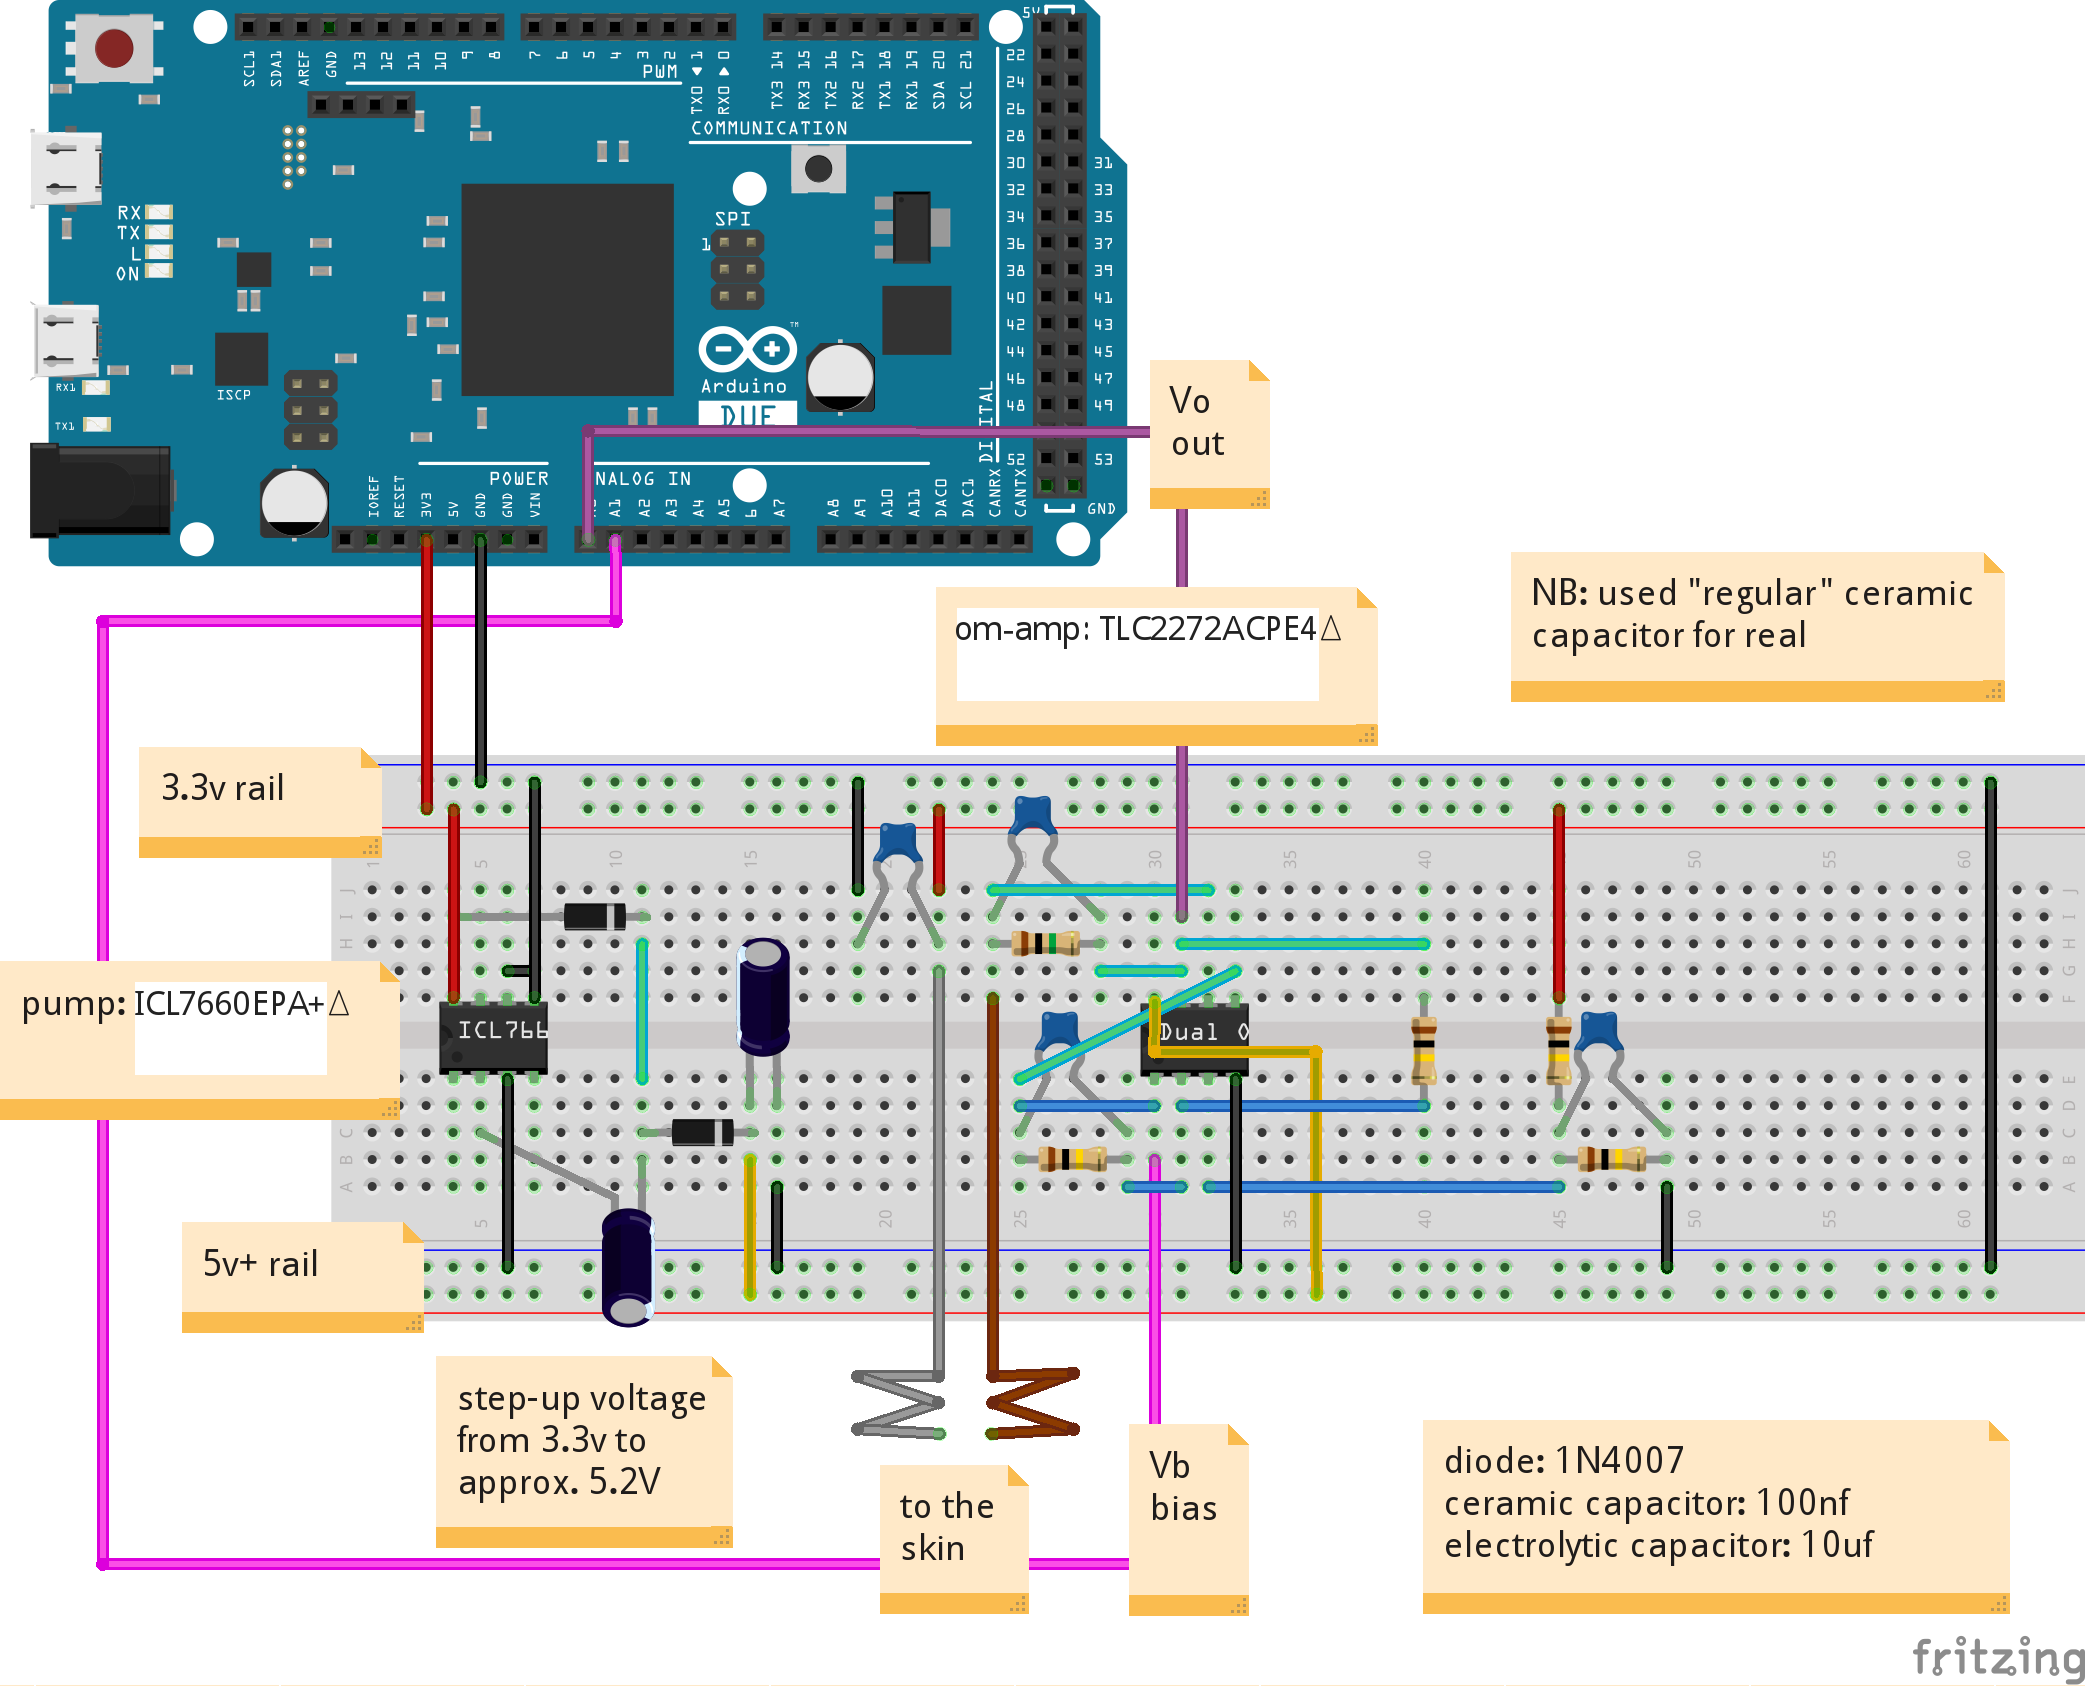
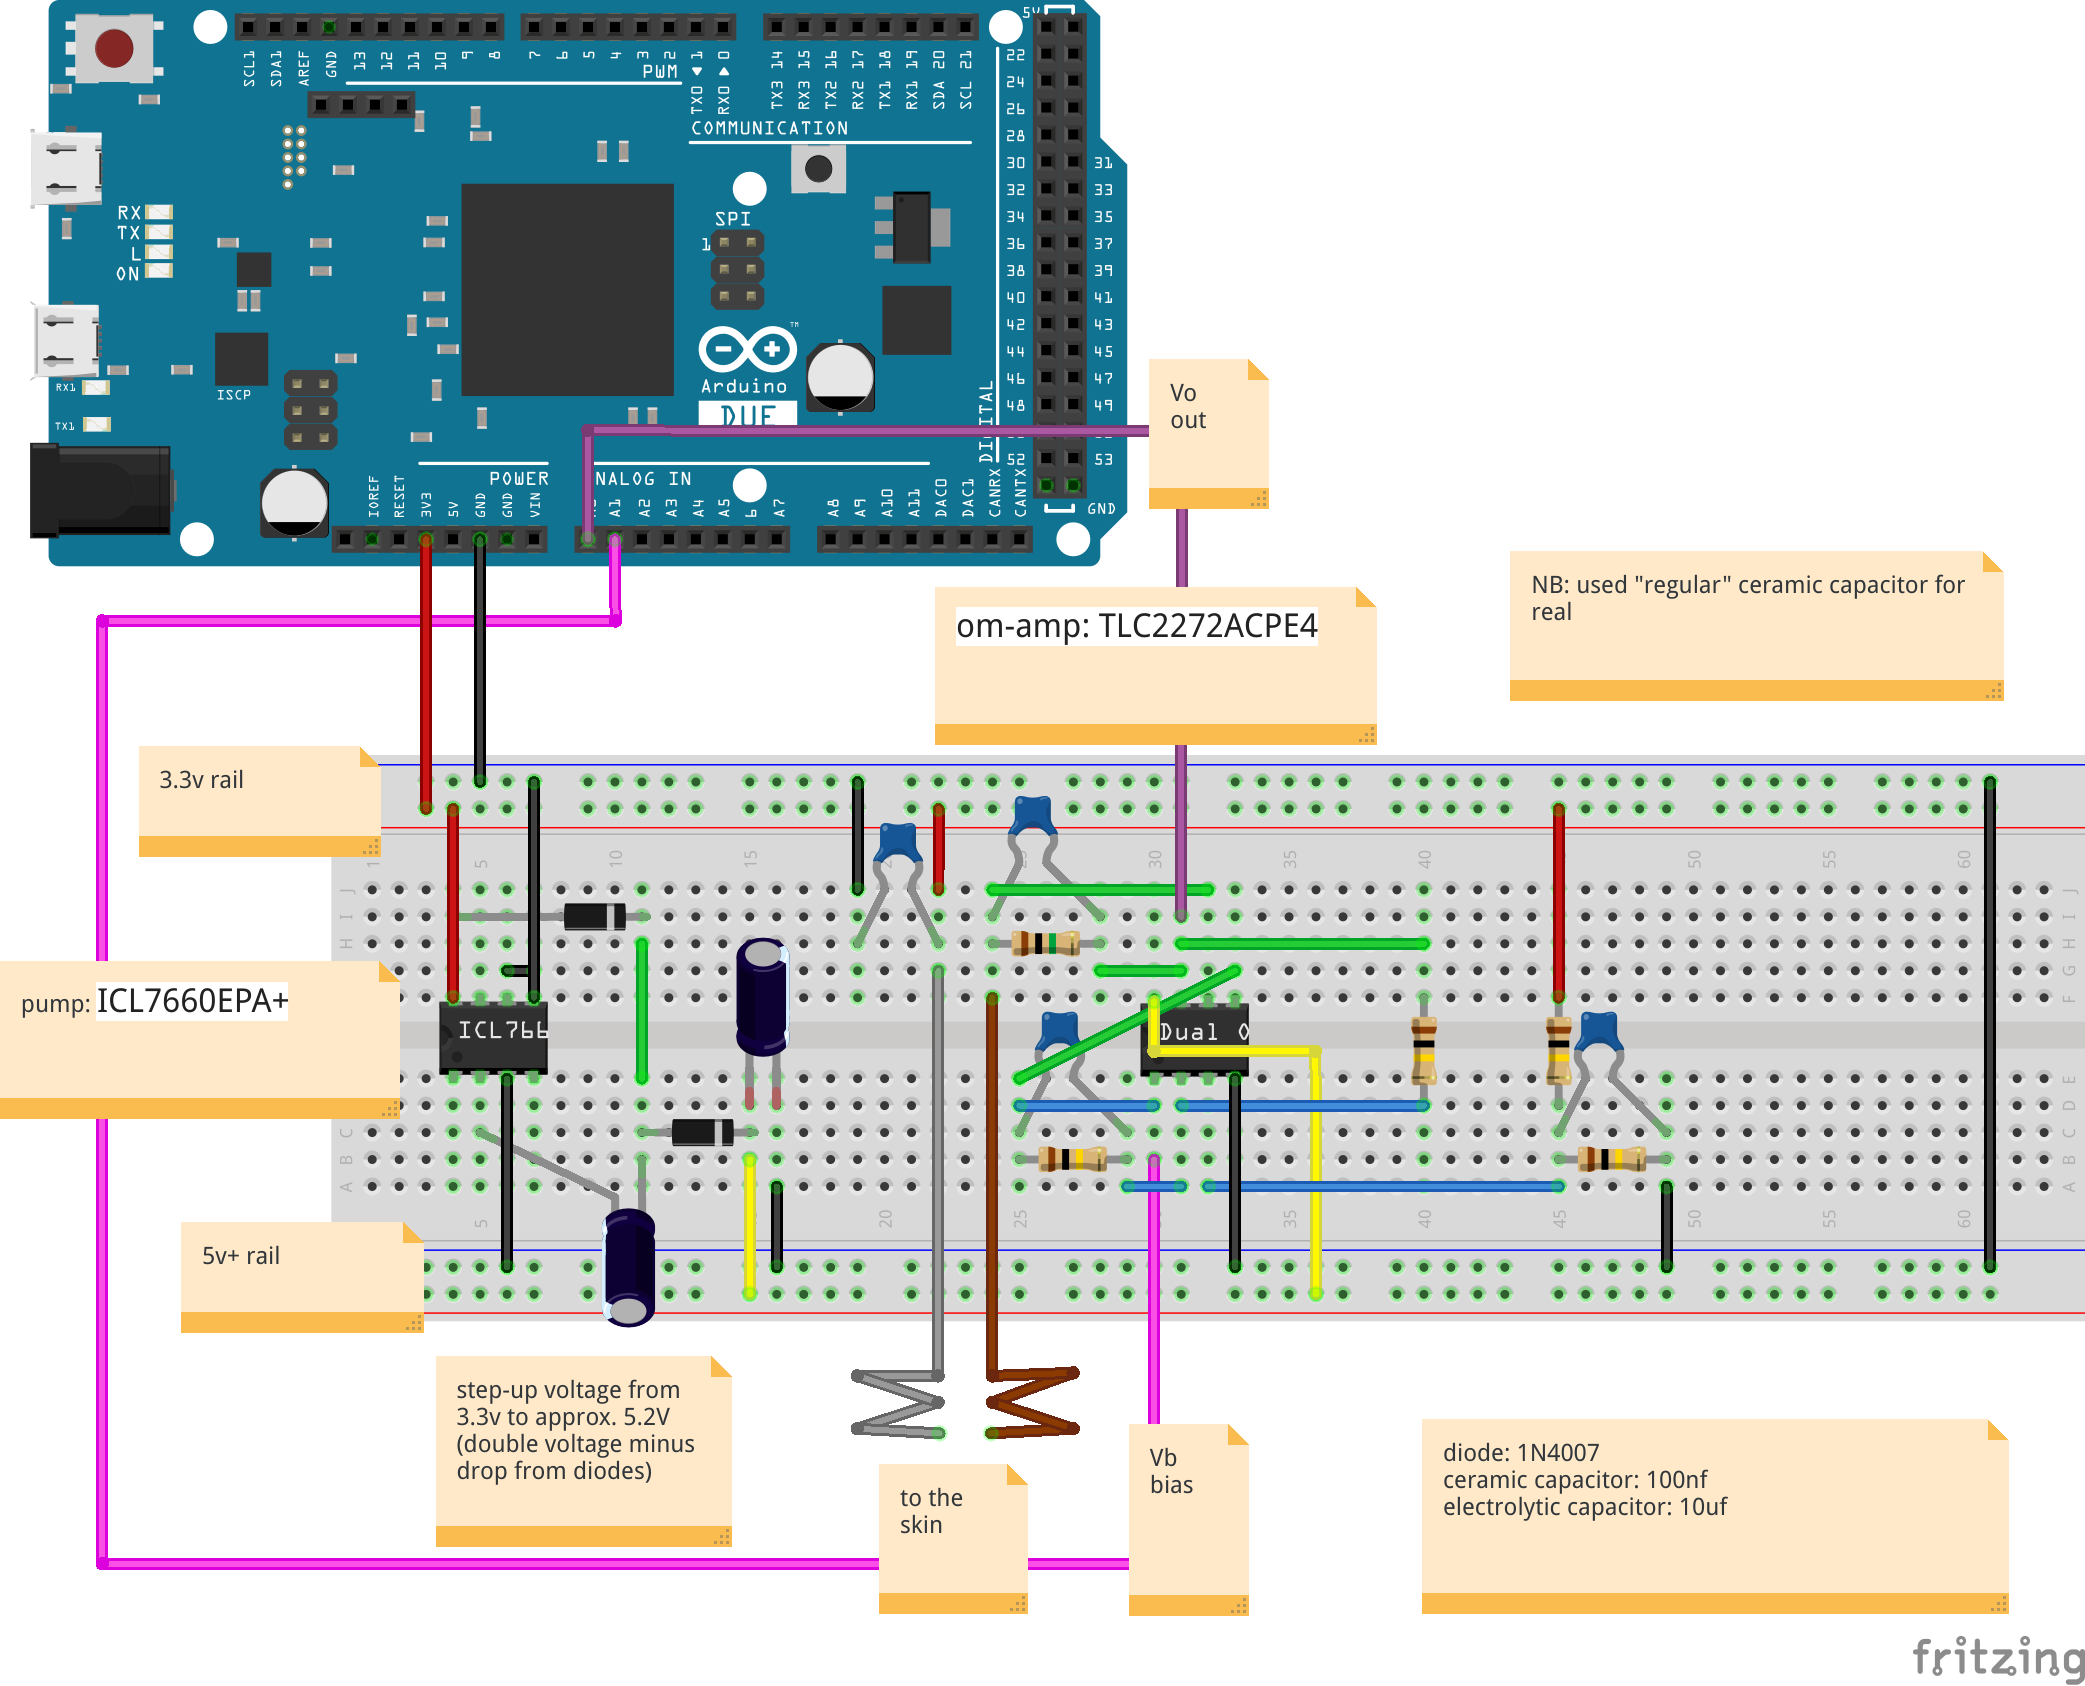
EDA: fix capacitor polarity

diff --git a/sensors/README.md b/sensors/README.md
@@ -1,7 +1,7 @@
 
 ## EDA
 
-Schematics for 3.3 to 5v+ circuit from http://www.mouser.com/ds/2/256/ICL7660-MAX1044-102834.pdf
+Schematics for 3.3 to 5v+ circuit from http://www.mouser.com/ds/2/256/ICL7660-MAX1044-102834.pdf (voltage doubler)
 
 Schematics for EDA taken from: Poh, M.-Z., Swenson, N., & Picard, R. W. (2010). A wearable sensor for unobtrusive, long-term assesment of electrodermal activity. IEEE Transactions on Biomedical Engineering, 57(5), 1243–1252.
 
